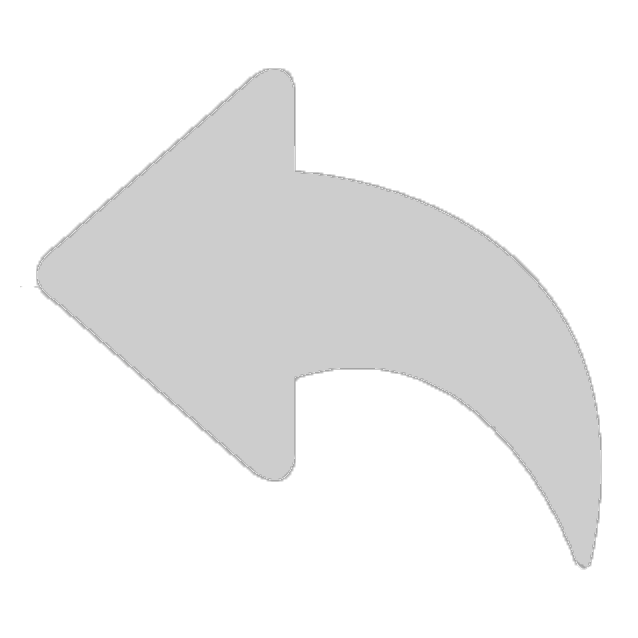
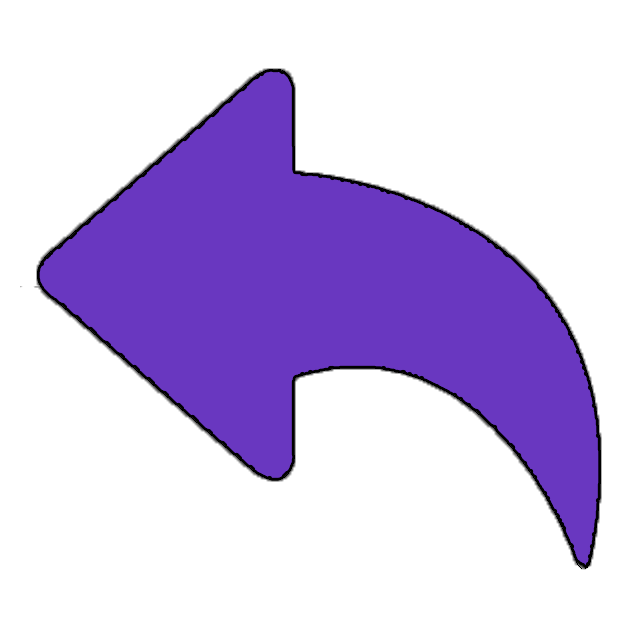
запросы (добавить, удалить) в комментах

diff --git a/PostOpen_form .cpp b/PostOpen_form .cpp
@@ -3,6 +3,7 @@
 #include <string>
 #include "Comm.h"
 #include "CommRepository.h"
+#include "Session.h"
 #include "Comment.h"
 
 using namespace QQ;
@@ -30,15 +31,12 @@ PostOpen::PostOpen(Post^ post) {
 		this->tableLayoutPanel2->Controls->Remove(this->image_post);
 		this->image_post = nullptr;
 	}
-	comm_info->Text = post->CommentsAllowed ? L"Отсутствуют" : L"Запрещены";
-
-	/*this->tableLayoutPanel2->Click += gcnew EventHandler(this, &PostOpen::HandleClick);
-	for each(Control ^ ctrl in this->Controls) {
-		ctrl->Click += gcnew EventHandler(this, &PostOpen::HandleClick);
+	comm_info->Text = post->CommentsAllowed ? L"" : L"Запрещены";
+	if (comm_info->Text == "")
+	{
+		this->tableLayoutPanel2->Controls->Remove(this->comm_info);
 	}
 
-	AttachClickHandlers(this);
-	*/
 	RenderComments();
 }
 
@@ -161,7 +159,7 @@ void PostOpen::InitializeComponent(void)
 	this->comm_send->Margin = System::Windows::Forms::Padding(30, 7, 3, 3);
 	this->comm_send->Name = L"comm_send";
 	this->comm_send->Size = System::Drawing::Size(30, 34);
-	this->comm_send->TabIndex = 6;
+	this->comm_send->Click += gcnew System::EventHandler(this, &PostOpen::comm_send_Click);
 	this->comm_send->Text = L">";
 	this->comm_send->UseVisualStyleBackColor = false;
 	// 
@@ -170,12 +168,11 @@ void PostOpen::InitializeComponent(void)
 	this->comm_tb = gcnew TextBox();
 	this->comm_tb->Dock = System::Windows::Forms::DockStyle::Fill;
 	this->comm_tb->Location = System::Drawing::Point(0, 0);
-	this->comm_tb->Margin = System::Windows::Forms::Padding(3);
+	this->comm_tb->Margin = System::Windows::Forms::Padding(3,0,0,0);
 	this->comm_tb->MaximumSize = System::Drawing::Size(1000 - comm_send->Width, 0);
 	this->comm_tb->Multiline = true;
 	this->comm_tb->Font = (gcnew System::Drawing::Font(L"Montserrat SemiBold", 14.8F, System::Drawing::FontStyle::Bold));
 	this->comm_tb->Size = System::Drawing::Size(435, 34);
-	this->comm_tb->TabIndex = 0;
 
 
 	this->panel1 = gcnew Panel();
@@ -184,7 +181,7 @@ void PostOpen::InitializeComponent(void)
 	this->panel1->Dock = System::Windows::Forms::DockStyle::Top;
 	this->panel1->Location = System::Drawing::Point(0, 0);
 	this->panel1->MaximumSize = System::Drawing::Size(1010, 34);
-	this->panel1->TabIndex = 1;
+	this->panel1->BorderStyle = System::Windows::Forms::BorderStyle::FixedSingle;
 	
 	this->tableLayoutPanel2 = gcnew TableLayoutPanel();
 	this->tableLayoutPanel2->Dock = DockStyle::Fill;
@@ -194,7 +191,6 @@ void PostOpen::InitializeComponent(void)
 	this->tableLayoutPanel2->ColumnStyles->Add(gcnew System::Windows::Forms::ColumnStyle(System::Windows::Forms::SizeType::Percent, 100));
 	this->tableLayoutPanel2->BackColor = System::Drawing::Color::White;
 	this->tableLayoutPanel2->RowCount = 7;
-	this->tableLayoutPanel2->BorderStyle = System::Windows::Forms::BorderStyle::FixedSingle;
 	this->tableLayoutPanel2->RowStyles->Add(gcnew RowStyle(SizeType::AutoSize)); // Автор + ...
 	this->tableLayoutPanel2->RowStyles->Add(gcnew RowStyle(SizeType::AutoSize)); // Фото
 	this->tableLayoutPanel2->RowStyles->Add(gcnew RowStyle(SizeType::AutoSize)); // Заголовок
@@ -209,25 +205,18 @@ void PostOpen::InitializeComponent(void)
 	this->tableLayoutPanel2->Controls->Add(this->panel3, 0, 4);
 	this->tableLayoutPanel2->Controls->Add(this->label2, 0, 5);
 	this->tableLayoutPanel2->Controls->Add(this->comm_info, 0, 6);
-	//this->tableLayoutPanel2->Controls->Add(this->panel1, 0, 7);
 	this->tableLayoutPanel2->Location = System::Drawing::Point(0, 0);
 	this->tableLayoutPanel2->Size = System::Drawing::Size(1018, 402);
 	this->tableLayoutPanel2->MaximumSize = System::Drawing::Size(1018, 0);
-	//this->Controls->Add(tableLayoutPanel2);
 
 
 	
 	this->commentsLayout = gcnew TableLayoutPanel();
 	this->commentsLayout->AutoSize = true;
-	this->commentsLayout->BorderStyle = System::Windows::Forms::BorderStyle::FixedSingle;
 	this->commentsLayout->AutoSizeMode = Windows::Forms::AutoSizeMode::GrowAndShrink;
 	this->commentsLayout->ColumnCount = 1;
 	this->commentsLayout->RowCount = 0;
 	this->commentsLayout->Dock = DockStyle::Top;
-	/*this->commentsLayout->ColumnStyles->Add(gcnew System::Windows::Forms::ColumnStyle(System::Windows::Forms::SizeType::Percent, 100));
-	this->commentsLayout->Location = System::Drawing::Point(0, 0);
-	this->commentsLayout->RowStyles->Add(gcnew RowStyle(SizeType::AutoSize));
-	this->commentsLayout->MaximumSize = System::Drawing::Size(1018, 0);*/
 	this->commentsLayout->BackColor = Color::White;
 
 
@@ -245,7 +234,6 @@ void PostOpen::InitializeComponent(void)
 	this->tableLayoutPanel1->RowStyles->Add(gcnew RowStyle(SizeType::AutoSize));
 	this->tableLayoutPanel1->AutoSize = true;
 	this->tableLayoutPanel1->MaximumSize = System::Drawing::Size(1018, 0);
-	this->tableLayoutPanel1->BorderStyle = System::Windows::Forms::BorderStyle::FixedSingle;
 	this->tableLayoutPanel1->AutoSizeMode = System::Windows::Forms::AutoSizeMode::GrowAndShrink;
 	this->Controls->Add(tableLayoutPanel1);
 }
@@ -349,24 +337,39 @@ void PostOpen::RenderCommentNode(QQ::Comm^ comm, Dictionary<int, Comment^>^ idTo
 	for each (Comm ^ child in comm->Children) {
 		RenderCommentNode(child, idToUI);
 	}
+	ui->OnReplySent += gcnew EventHandler(this, &PostOpen::RefreshComments);
+	ui->OnCommentsUpdated += gcnew Comment::CommentsUpdatedHandler(this, &PostOpen::RenderComments);
+
+
 }
 
 
+
+
 void PostOpen::RenderComments() {
+	commentsLayout->Controls->Clear();
+	commentsLayout->RowStyles->Clear();
+	commentsLayout->RowCount = 0;
 	List<Comm^>^ rootComments = CommRepository::LoadTree(this->PostData);
 	Dictionary<int, Comment^>^ idToUI = gcnew Dictionary<int, Comment^>();
 
 	for each (Comm ^ root in rootComments) {
 		RenderCommentNode(root, idToUI);
 	}
-
-	// добавляем поле для нового комментария
-	commentsLayout->Controls->Add(this->panel1);
-	commentsLayout->SetRow(this->panel1, commentsLayout->RowCount);
-	commentsLayout->RowStyles->Add(gcnew RowStyle(SizeType::AutoSize));
+	
+	if (comm_info->Text == "") {
+		// добавляем поле для нового комментария
+		commentsLayout->Controls->Add(this->panel1);
+		commentsLayout->SetRow(this->panel1, commentsLayout->RowCount);
+		commentsLayout->RowStyles->Add(gcnew RowStyle(SizeType::AutoSize));
+	}
 }
 
-
+void PostOpen::RefreshComments(Object^ sender, EventArgs^ e)
+{
+	this->commentsLayout->Controls->Clear();
+	RenderComments();
+}
 
 
 void PostOpen::save_Click(System::Object^ sender, System::EventArgs^ e) {
@@ -399,6 +402,37 @@ void PostOpen::otmena_Click(System::Object^ sender, System::EventArgs^ e) {
 	this->panel3->Controls->Remove(this->save);
 	this->panel3->Controls->Remove(this->otmena);
 }
+
+
+void PostOpen::comm_send_Click(Object^ sender, EventArgs^ e)
+{
+	System::String^ text = comm_tb->Text->Trim();
+	if (String::IsNullOrEmpty(text)) {
+		MessageBox::Show("Комментарий не может быть пустым.");
+		return;
+	}
+
+	bool success = CommRepository::AddComment(
+		this->PostData->ID,
+		Session::CurrentUser->ID,
+		0,
+		text,
+		DateTime::Now,
+		false, // its_otvet
+		0      // parent_comm
+	);
+
+	if (success) {
+		comm_tb->Clear();
+		commentsLayout->Controls->Clear();
+		RenderComments(); // перерисовать все
+	}
+	else {
+		MessageBox::Show("Ошибка при добавлении комментария.");
+	}
+}
+
+
 
 PostOpen::~PostOpen()
 {

diff --git a/Comment.h b/Comment.h
@@ -17,8 +17,12 @@ namespace QQ {
     public: Comment(Post^ post, Comm^ comm);
     public:
         property int ID;
-        property int ParentId;
+        property int parentId;
         property List<Comment^>^ Replies;
+        EventHandler^ OnReplySent;
+        delegate void CommentsUpdatedHandler();
+        CommentsUpdatedHandler^ OnCommentsUpdated;
+
 
     protected:
         ~Comment();
@@ -52,11 +56,13 @@ namespace QQ {
         Boolean^ its_otvet;
         int serial_otvet;
         bool isExpanded = true;
+        bool comm_allowed;
 
 
            void Delete_Click(Object^ sender, EventArgs^ e);
            void Label1_Click(Object^ sender, EventArgs^ e);
            void Comment::otvet_Click(Object^ sender, EventArgs^ e);
+           void comm_send_Click(System::Object^ sender, System::EventArgs^ e);
 
     };
 }

diff --git a/PostOpen.h b/PostOpen.h
@@ -60,10 +60,7 @@ namespace QQ {
         TableLayoutPanel^ commentsLayout;
         int postId;
     private: FlowLayoutPanel^ repliesPanel;
-
-    //public: delegate void PostOpenHandler(Post^ SelectPost);
-    //public: event PostOpenHandler^ OpenPost;
-    //private: System::Void HandleClick(System::Object^ sender, System::EventArgs^ e);
+           
 
 
         void Delete_Click(Object^ sender, EventArgs^ e);
@@ -73,6 +70,8 @@ namespace QQ {
         void Edit_Click(Object^ sender, EventArgs^ e);
         void RenderComments();
         void RenderCommentNode(QQ::Comm^ comm, Dictionary<int, Comment^>^ idToUI);
+        void RefreshComments(Object^ sender, EventArgs^ e);
+        void comm_send_Click(System::Object^ sender, System::EventArgs^ e);
 
     };
 }

diff --git a/CommService.cpp b/CommService.cpp
@@ -1,0 +1,28 @@
+#include "CommService.h"
+#include "CommRepository.h"
+
+using namespace QQ;
+
+bool CommService::AddNewComment(
+    Post^ post,
+    User^ author,
+    String^ text,
+    DateTime date,
+    bool isReply,
+    int serialOtvet,
+    int idOtvUser,
+    int parentCommId
+) {
+    if (String::IsNullOrWhiteSpace(text)) return false;
+
+    return CommRepository::AddComment(
+        post->ID,
+        author->ID,
+        idOtvUser,
+        text,
+        date,
+        isReply,
+        serialOtvet,
+        parentCommId
+    );
+}

diff --git a/CommService.h b/CommService.h
@@ -1,0 +1,23 @@
+#pragma once
+
+#include "Post.h"
+#include "User.h"
+#include "Comm.h"
+
+using namespace System;
+using namespace System::Collections::Generic;
+namespace QQ {
+    ref class CommService {
+    public:
+        static bool AddNewComment(
+            Post^ post,
+            User^ author,
+            String^ text,
+            DateTime date,
+            bool isReply,
+            int serialOtvet,
+            int idOtvUser,
+            int parentCommId
+        );
+    };
+}

diff --git a/CommRepository.h b/CommRepository.h
@@ -11,4 +11,13 @@ public ref class CommRepository
 {
 public:
     static List<QQ::Comm^>^ LoadTree(QQ::Post^ post);
+public:
+    static bool AddComment(int id_post, int id_user, int id_otvet_user,
+        System::String^ text, System::DateTime date,
+        bool its_otvet, int parent_comm);
+
+    static bool MarkAsDeleted(int commentId);
+    static bool DeleteReplies(int parentId);
+
 };
+
